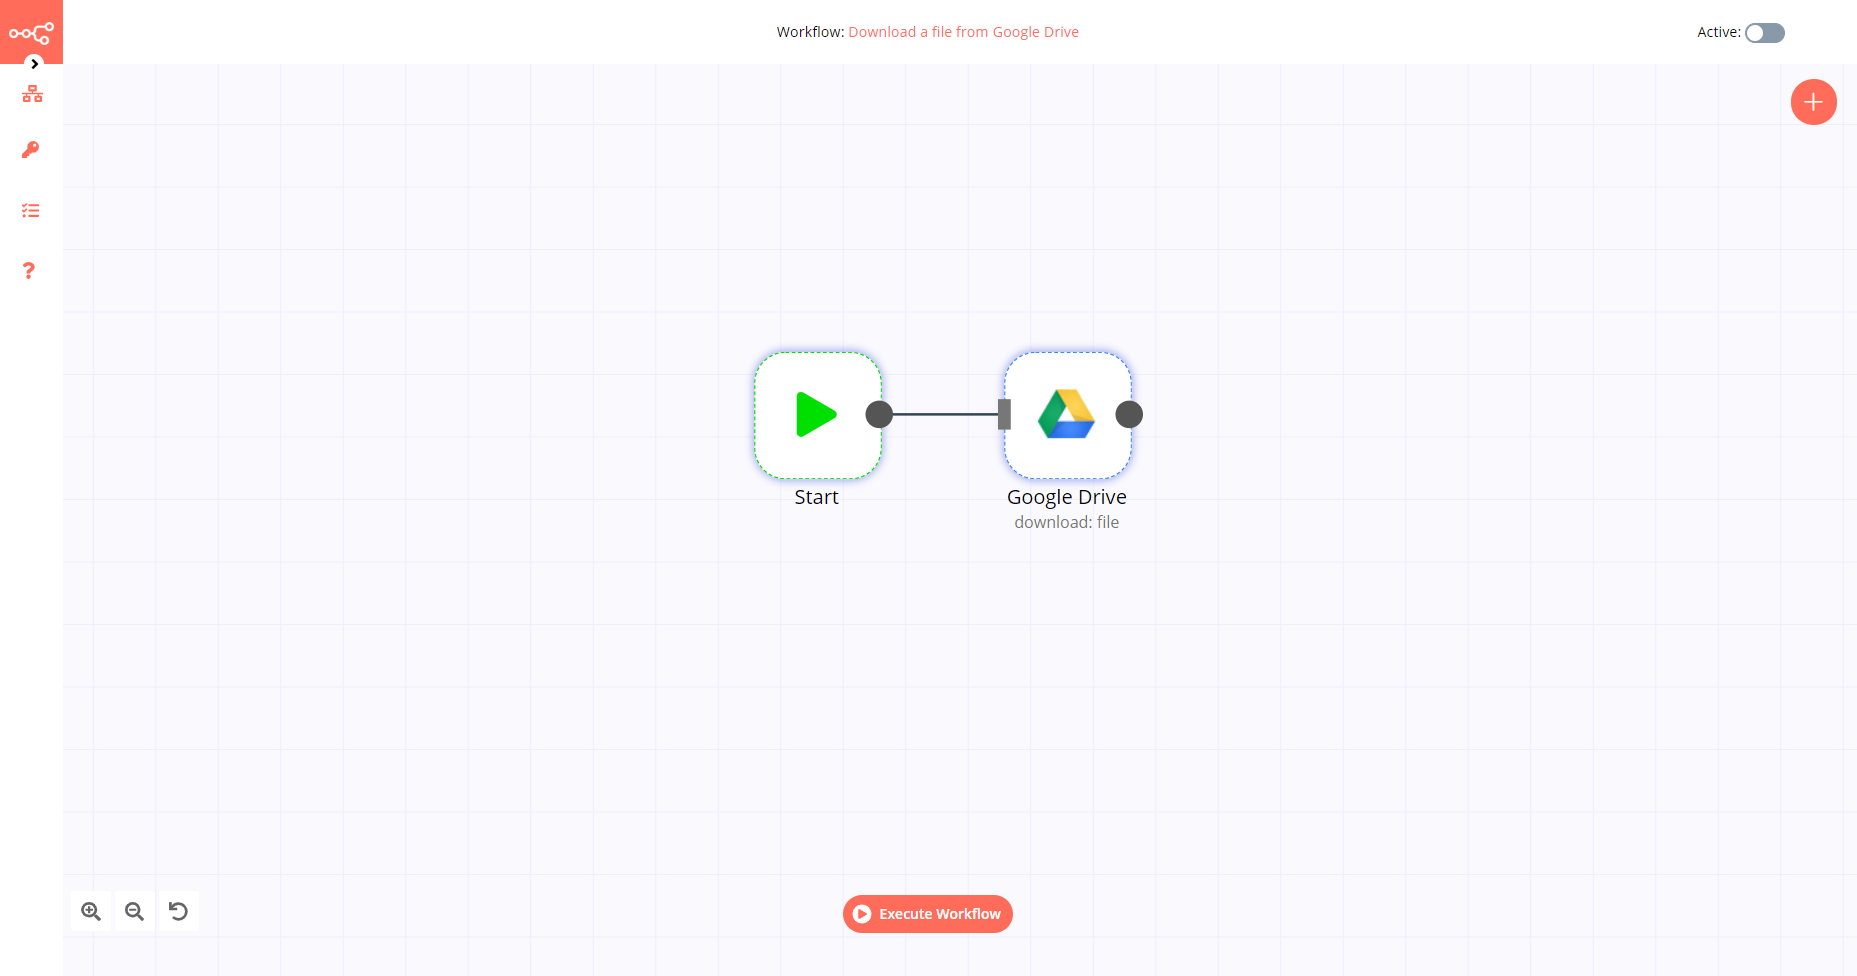
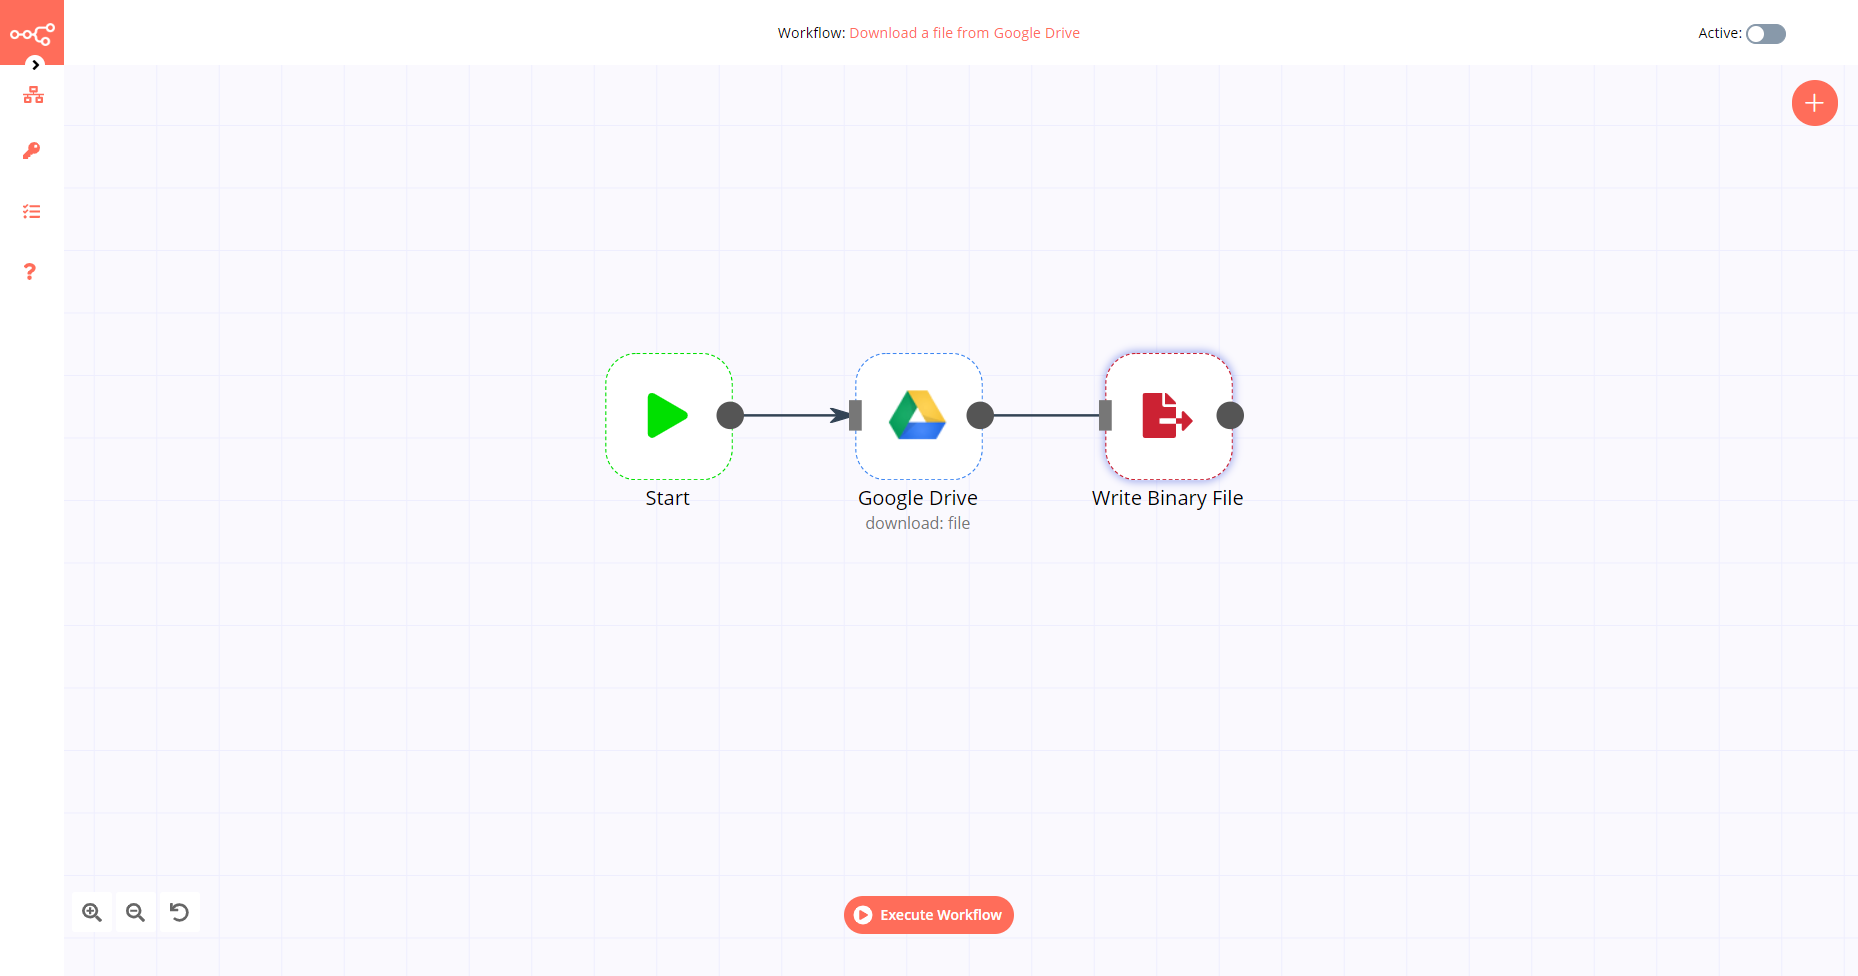
:bug: Updated Google Drive docs based on @tanay1337's feedback

diff --git a/docs/nodes/nodes-library/nodes/GoogleDrive/README.md b/docs/nodes/nodes-library/nodes/GoogleDrive/README.md
@@ -27,6 +27,7 @@ You can find authentication information for this node [here](../../../credential
 This workflow allows you to download a file from Google Drive. You can also find the [workflow](https://n8n.io/workflows/515) on the website. This example usage workflow uses the following two nodes.
 - [Start](../../core-nodes/Start/README.md)
 - [Google Drive]()
+- [Write Binary File](../../core-nodes/WriteBinaryFile/README.md)
 
 The final workflow should look like the following image.
 
@@ -42,4 +43,8 @@ The Start node exists by default when you create a new workflow.
 2. Select the authentication method you plan to use from the *Authentication* dropdown list.
 3. Select 'Download' from the *Operation* dropdown list.
 4. Copy the string of characters located between `/d/` and `/edit` in your Google Drive URL. Paste that string in the *File ID* field.
+
+### 3. Write Binary File node
+
+1. Enter the destination file path in the *File Name* field.
 5. Click on *Execute Node* to run the workflow.
